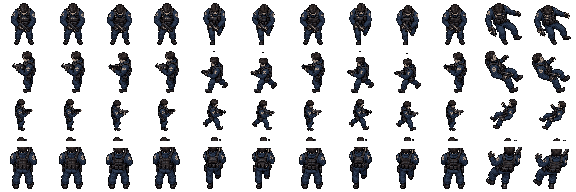
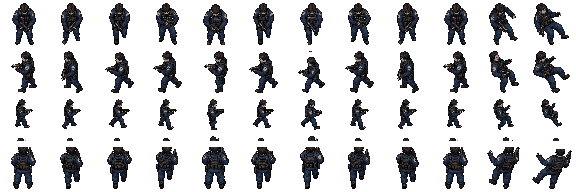
fix(art): replace translated character frames

diff --git a/test/art-assets.test.js b/test/art-assets.test.js
@@ -1,5 +1,6 @@
 import test from "node:test";
 import assert from "node:assert/strict";
+import { createHash } from "node:crypto";
 import { access, readFile } from "node:fs/promises";
 import { fileURLToPath } from "node:url";
 import { inflateSync } from "node:zlib";
@@ -149,6 +150,69 @@ function getVisibleFootY(framePixels) {
   return footY;
 }
 
+function getAlphaBounds(framePixels) {
+  let minX = 48;
+  let minY = 48;
+  let maxX = -1;
+  let maxY = -1;
+  for (let offset = 0; offset < framePixels.length; offset += 4) {
+    if (framePixels[offset + 3] !== 255) continue;
+    const pixelIndex = offset / 4;
+    const x = pixelIndex % 48;
+    const y = Math.floor(pixelIndex / 48);
+    minX = Math.min(minX, x);
+    minY = Math.min(minY, y);
+    maxX = Math.max(maxX, x);
+    maxY = Math.max(maxY, y);
+  }
+  assert.ok(maxX >= minX && maxY >= minY, "character frame cannot be empty");
+  return { minX, minY, maxX, maxY };
+}
+
+function normalizeFrameByAlphaBoundsAndFeet(framePixels) {
+  const { minX, minY, maxX, maxY } = getAlphaBounds(framePixels);
+  const width = maxX - minX + 1;
+  const height = maxY - minY + 1;
+  const targetX = Math.floor((48 - width) / 2);
+  const targetY = 48 - height;
+  const normalized = Buffer.alloc(48 * 48 * 4);
+
+  for (let sourceY = minY; sourceY <= maxY; sourceY += 1) {
+    for (let sourceX = minX; sourceX <= maxX; sourceX += 1) {
+      const sourceOffset = (sourceY * 48 + sourceX) * 4;
+      const destinationX = targetX + sourceX - minX;
+      const destinationY = targetY + sourceY - minY;
+      const destinationOffset = (destinationY * 48 + destinationX) * 4;
+      framePixels.copy(normalized, destinationOffset, sourceOffset, sourceOffset + 4);
+    }
+  }
+  return normalized;
+}
+
+function getNormalizedFrameHash(framePixels) {
+  return createHash("sha256")
+    .update(normalizeFrameByAlphaBoundsAndFeet(framePixels))
+    .digest("hex");
+}
+
+function getChangedVisiblePixelRatio(firstFrame, secondFrame) {
+  const first = normalizeFrameByAlphaBoundsAndFeet(firstFrame);
+  const second = normalizeFrameByAlphaBoundsAndFeet(secondFrame);
+  let changedPixels = 0;
+  let visibleUnionPixels = 0;
+  for (let offset = 0; offset < first.length; offset += 4) {
+    const firstVisible = first[offset + 3] === 255;
+    const secondVisible = second[offset + 3] === 255;
+    if (!firstVisible && !secondVisible) continue;
+    visibleUnionPixels += 1;
+    if (!first.subarray(offset, offset + 4).equals(second.subarray(offset, offset + 4))) {
+      changedPixels += 1;
+    }
+  }
+  assert.ok(visibleUnionPixels > 0, "character frame pair cannot be empty");
+  return changedPixels / visibleUnionPixels;
+}
+
 test("production manifest declares the approved static vertical slice", () => {
   assert.equal(TEXTURES.weaponPistolIcon, "weapon-pistol-icon");
   assert.equal(TEXTURES.weaponBreacherIcon, "weapon-breacher-icon");
@@ -251,16 +315,28 @@ test("opening character sheets are exact RGBA 48-frame production assets", async
         for (let column = start; column <= end; column += 1) {
           frames.push(getFramePixels(pixels, width, row * 12 + column));
         }
-        assert.ok(
-          new Set(frames.map((frame) => frame.toString("base64"))).size >= 2,
-          `${key} ${motion} row ${row} cannot repeat one frame`
+        assert.equal(
+          new Set(frames.map(getNormalizedFrameHash)).size,
+          frames.length,
+          `${key} ${motion} row ${row} must contain ${frames.length}/${frames.length} translation-normalized unique poses`
         );
         const footYs = frames.map(getVisibleFootY);
         assert.ok(footYs.every((value) => value >= 0), `${key} ${motion} row ${row} has an empty frame`);
         assert.ok(
-          Math.max(...footYs) - Math.min(...footYs) <= 1,
-          `${key} ${motion} row ${row} foot anchor drifts more than one pixel`
+          footYs.every((value) => value === 44),
+          `${key} ${motion} row ${row} feet must remain at y=44`
         );
+        for (let frameIndex = 0; frameIndex < frames.length; frameIndex += 1) {
+          const nextFrameIndex = (frameIndex + 1) % frames.length;
+          const changedPixelRatio = getChangedVisiblePixelRatio(
+            frames[frameIndex],
+            frames[nextFrameIndex]
+          );
+          assert.ok(
+            changedPixelRatio >= 0.04,
+            `${key} ${motion} row ${row} frames ${frameIndex}->${nextFrameIndex} changed-pixel ratio ${changedPixelRatio.toFixed(4)} is below 0.0400`
+          );
+        }
       }
     }
   }

diff --git a/docs/art/asset-register.md b/docs/art/asset-register.md
@@ -179,8 +179,8 @@ Avoid: crown, tiara, spikes around hood, gold headwear, royal costume, front ele
 | facility-hazard-stripe | PNG | `assets/art/facility/hazard-stripe.png` | OpenAI built-in `image_gen`（具体模型名未由工具暴露） | 2026-07-13 | [P19](#p19-facility-hazard-stripe)；仅文本输入 | 原图 1254×1254 RGB；中心正方形裁切；nearest 精确缩至 32×32；MEDIANCUT 无抖动量化为 32 色；复制首行/列到末行/列形成逐像素闭合边界；转 8-bit RGBA，alpha 固定 255 | 项目定制生成；无第三方图像输入；未声明独立许可证，商业发布前复核服务条款与输出权利；当前无第三方署名要求，若服务条款复核产生要求则补充 | 候选；商业发布前复核 | 静态门禁候选 |
 | facility-observation-window | PNG | `assets/art/facility/observation-window.png` | OpenAI built-in `image_gen`（具体模型名未由工具暴露） | 2026-07-13 | [P20](#p20-facility-observation-window)；仅文本输入 | 原图 1536×1024 RGB；官方 `remove_chroma_key.py --auto-key border --soft-matte --transparent-threshold 12 --opaque-threshold 220 --despill`；alpha 以 128 阈值二值化并按 bbox 裁切；nearest 等比缩入 92×60 内容区并居中至 96×64；MEDIANCUT 无抖动量化；8-bit RGBA；bbox `(2,13,94,51)`，32 个不透明色，alpha 仅 0/255 | 项目定制生成；无第三方图像输入；未声明独立许可证，商业发布前复核服务条款与输出权利；当前无第三方署名要求，若服务条款复核产生要求则补充 | 候选；商业发布前复核 | 静态门禁候选 |
 | facility-pipe-bank | PNG | `assets/art/facility/pipe-bank.png` | OpenAI built-in `image_gen`（具体模型名未由工具暴露） | 2026-07-13 | [P21](#p21-facility-pipe-bank)；仅文本输入 | 原图 1536×1024 RGB；官方 `remove_chroma_key.py --auto-key border --soft-matte --transparent-threshold 12 --opaque-threshold 220 --despill`；alpha 以 128 阈值二值化并按 bbox 裁切；nearest 等比缩入 92×60 内容区并居中至 96×64；MEDIANCUT 无抖动量化；8-bit RGBA；bbox `(2,16,94,48)`，32 个不透明色，alpha 仅 0/255 | 项目定制生成；无第三方图像输入；未声明独立许可证，商业发布前复核服务条款与输出权利；当前无第三方署名要求，若服务条款复核产生要求则补充 | 候选；商业发布前复核 | 静态门禁候选 |
-| player-opening-sheet | PNG spritesheet | `assets/art/characters/player-opening-sheet.png` | OpenAI built-in `image_gen`（具体模型名未由工具暴露）+ bundled Python/Pillow 12.2.0 | 2026-07-13 | [P22](#p22-player-opening-sheet)；仅文本输入；原始输出 `C:\Users\24037\.codex\generated_images\019f59e7-6613-73d3-9ac1-a2f4baa76dcd\exec-3d058fc0-8885-4f0b-9121-627db2e44d05.png`，工作副本 `.superpowers/sdd/opening-task-6-sources/player-grid-raw.png` | 1254×1254 RGB；官方 `remove_chroma_key.py --auto-key border --soft-matte --transparent-threshold 12 --opaque-threshold 220 --despill`；alpha 以 128 阈值二值化；按 4×3 单元提取 idle/move/hit 源姿势并按 alpha bbox 裁切；nearest 等比缩入每帧最大 40×42 内容区；以源姿势和 ±1px 横移/1–2px 高度变化组装每方向 idle 4 / move 6 / hit 2，脚底固定 y=44；整张 sheet MEDIANCUT 无抖动量化为 32 个可见色；输出 576×192、48 帧、8-bit RGBA、alpha 仅 0/255 | 项目定制生成；无第三方图像输入；未声明独立许可证，商业发布前复核 OpenAI 服务条款与输出权利；当前无第三方署名要求，若复核产生要求则补充 | 候选；商业发布前复核 | 开局动画候选 |
-| infected-opening-sheet | PNG spritesheet | `assets/art/characters/infected-opening-sheet.png` | OpenAI built-in `image_gen`（具体模型名未由工具暴露）+ bundled Python/Pillow 12.2.0 | 2026-07-13 | [P23](#p23-infected-opening-sheet-first-attempt-no-output) 首次调用卡住且无输出；[P24](#p24-infected-opening-sheet-successful-source) 为实际源；仅文本输入；原始输出 `C:\Users\24037\.codex\generated_images\019f59e7-6613-73d3-9ac1-a2f4baa76dcd\exec-d4c287ef-366b-4f0f-983a-7e1b93fa44fe.png`，工作副本 `.superpowers/sdd/opening-task-6-sources/infected-grid-raw.png` | 1254×1254 RGB；使用与 player 完全相同的官方去色键、alpha 二值化、4×3 源姿势提取、nearest 缩放、逐帧组装和整 sheet MEDIANCUT 无抖动量化流程；脚底固定 y=44；输出 576×192、48 帧、8-bit RGBA、32 个可见色、alpha 仅 0/255 | 项目定制生成；无第三方图像输入；未声明独立许可证，商业发布前复核 OpenAI 服务条款与输出权利；当前无第三方署名要求，若复核产生要求则补充 | 候选；商业发布前复核 | 开局动画候选 |
+| player-opening-sheet | PNG spritesheet | `assets/art/characters/player-opening-sheet.png` | OpenAI built-in `image_gen`（具体模型名未由工具暴露）+ Node.js nearest/binary-alpha assembly | 2026-07-13 | 原概念源 [P22](#p22-player-opening-sheet)；补帧 [P25](#p25-player-idle-hit-remediation-source)；两次 walk 调用 [P26](#p26-player-walk-remediation-attempt-no-output)、[P29](#p29-player-walk-remediation-retry-no-output) 均无输出 | 补帧原图 `C:\Users\24037\.codex\generated_images\019f5a0e-95c3-72b0-969d-7fc51a88a89f\exec-1edce71f-7d84-477f-94c5-36e33f44ebaa.png`；以绿幕距离/绿色优势生成 binary alpha；4×6 alpha bbox 提取；idle 使用新源列 0–3，move 使用原源 idle/move 与新源列 0–3 共 6 个真实姿势，hit 使用新源列 4–5；nearest 等比缩入 40×42、渲染后脚底对齐 y=44；映射到原 player sheet 的 32 色 palette；输出 576×192、8-bit RGBA、alpha 0/255。工作源见 `.superpowers/sdd/opening-task-6-fix-sources/` | 项目定制生成；唯一 reference 为原项目定制生成源板；无第三方图像输入；未声明独立许可证，商业发布前复核 OpenAI 服务条款与输出权利；当前无第三方署名要求 | 候选；商业发布前复核 | 开局动画候选（真实动作帧修复） |
+| infected-opening-sheet | PNG spritesheet | `assets/art/characters/infected-opening-sheet.png` | OpenAI built-in `image_gen`（具体模型名未由工具暴露）+ Node.js nearest/binary-alpha assembly | 2026-07-13 | 原概念源 [P24](#p24-infected-opening-sheet-successful-source)；补帧 [P27](#p27-infected-idle-hit-remediation-source)、[P28](#p28-infected-walk-remediation-source) | idle/hit 原图 `C:\Users\24037\.codex\generated_images\019f5a0e-95c3-72b0-969d-7fc51a88a89f\exec-b6192a8e-30e2-472e-9424-22cb24026894.png`；walk 原图 `C:\Users\24037\.codex\generated_images\019f5a0e-95c3-72b0-969d-7fc51a88a89f\exec-4bb36632-a0dd-46e3-99d3-9127e6ac047a.png`；binary alpha 与 4×6 alpha bbox 提取；idle 列 0–3 / walk 列 0–5 / hit 列 4–5；nearest 等比缩入 40×42、脚底 y=44；映射到原 infected sheet 的 32 色 palette；输出 576×192、8-bit RGBA、alpha 0/255。工作源见 `.superpowers/sdd/opening-task-6-fix-sources/` | 项目定制生成；唯一 reference 为原项目定制生成源板；无第三方图像输入；未声明独立许可证，商业发布前复核 OpenAI 服务条款与输出权利；当前无第三方署名要求 | 候选；商业发布前复核 | 开局动画候选（真实动作帧修复） |
 
 ### P13 title-facility-backdrop
 
@@ -354,6 +354,103 @@ Scene/backdrop: perfectly flat uniform solid #00ff00 chroma-key background.
 Constraints: no #00ff00 in the character; no shadows, gradients, floor, reflections, text, labels, logos, watermark, extra characters, props, gore, or scenery; crisp opaque edges; every pose distinct and direction unambiguous.
 Avoid: chibi, oversized head, zombie caricature, excess blood, 3D, isometric, side-view, smooth painting, soft transparency, duplicated poses.
 ```
+
+### P25 player-idle-hit-remediation-source
+
+Reference：`C:\Users\24037\.codex\generated_images\019f59e7-6613-73d3-9ac1-a2f4baa76dcd\exec-3d058fc0-8885-4f0b-9121-627db2e44d05.png`。输出：`C:\Users\24037\.codex\generated_images\019f5a0e-95c3-72b0-969d-7fc51a88a89f\exec-1edce71f-7d84-477f-94c5-36e33f44ebaa.png`。
+
+```text
+Use case: stylized-concept
+Asset type: additional source pose board for a production 48x48-per-frame top-down 2D pixel-art game character spritesheet
+Input images: Image 1 is the sole character identity, uniform, gear, palette, orthographic viewpoint, and pixel-art style reference.
+Primary request: Generate exactly 24 isolated poses of the SAME Foundation tactical survivor from Image 1, arranged as a precise 4-row by 6-column grid.
+Rows from top to bottom: natively drawn facing down toward viewer; facing left; facing right; facing up away from viewer. Do not create left/right rows by mirroring.
+Columns 1-4: four genuinely articulated idle phases. Pose 1 balanced low-ready stance; pose 2 weight shifted onto one leg with the opposite knee relaxed and shoulders subtly counter-rotated; pose 3 weight shifted to the other leg with weapon and elbows changing relative positions; pose 4 alert breath/scanning stance with distinct knee, shoulder, elbow, and weapon placement. Columns 5-6: two genuinely different hit recoil poses, one torso twisting and weapon arm pulling inward, the other shoulders recoiling back with the free arm and legs bracing differently.
+Subject invariants: preserve the exact same adult realistic-proportion survivor identity, dark navy protective suit, compact chest rig, pale shoulder insignia without readable text, black boots, hair, face, equipment, and compact firearm from Image 1. Weapon points consistently in the row's facing direction except during the two recoil poses.
+Style/medium: authentic detailed orthographic top-down 2D pixel art, coarse deliberate hard pixel clusters, limited steel-blue/graphite palette, crisp opaque edges, no antialiasing.
+Composition/framing: exact evenly spaced 4x6 grid, one complete full-body character per cell, identical character scale, generous uniform separation and padding, stable foot baseline within each row, no cell borders.
+Scene/backdrop: perfectly flat uniform solid #00ff00 chroma-key background for local removal.
+Constraints: all 24 poses must have visibly different limb articulation after translation alignment; change knees, boot separation/angle, shoulders, elbows, hands, weapon relation, and torso angle—not whole-body position, bob, scale, mirroring, recolor, or one-pixel noise alone. No #00ff00 in character; no shadows, gradients, texture, floor, reflections, text, labels, numbers, logos, watermark, extra characters, props, muzzle flash, blood, or scenery.
+Avoid: duplicated poses, translation-only copies, vertical bob-only frames, scaled copies, mirrored direction rows, chibi, oversized head, 3D, isometric, side-view, smooth painting, soft transparency.
+```
+
+### P26 player-walk-remediation-attempt-no-output
+
+Reference 同 P25。调用超过 5 分钟无输出后终止，未生成源文件。
+
+```text
+Use case: stylized-concept
+Asset type: six-phase walk-cycle source pose board for a production 48x48-per-frame top-down 2D pixel-art game character spritesheet
+Input images: Image 1 is the sole character identity, uniform, gear, palette, orthographic viewpoint, and pixel-art style reference.
+Primary request: Generate exactly 24 isolated poses of the SAME Foundation tactical survivor from Image 1, arranged as a precise 4-row by 6-column grid.
+Rows from top to bottom: natively drawn facing down toward viewer; facing left; facing right; facing up away from viewer. Do not create left/right rows by mirroring.
+Columns 1-6 are one coherent looping tactical walk cycle with six genuinely articulated gait phases: left-foot contact, left-foot load, passing pose, right-foot contact, right-foot load, opposite passing pose. Across the cycle, knees bend and exchange depth, boot spacing and angles change, hips and shoulders counter-rotate subtly, elbows and held weapon shift naturally with the stride, and the final-to-first transition loops cleanly. The survivor remains combat-ready rather than sprinting.
+Subject invariants: preserve the exact same adult realistic-proportion survivor identity, dark navy protective suit, compact chest rig, pale shoulder insignia without readable text, black boots, hair, face, equipment, and compact firearm from Image 1. Weapon points consistently in the row's facing direction.
+Style/medium: authentic detailed orthographic top-down 2D pixel art, coarse deliberate hard pixel clusters, limited steel-blue/graphite palette, crisp opaque edges, no antialiasing.
+Composition/framing: exact evenly spaced 4x6 grid, one complete full-body character per cell, identical character scale, generous uniform separation and padding, stable foot baseline within each row, no cell borders.
+Scene/backdrop: perfectly flat uniform solid #00ff00 chroma-key background for local removal.
+Constraints: every neighboring phase and phase 6 back to phase 1 must remain visibly different after translation alignment; real changes must affect legs, boots, knees, hips, shoulders, elbows, hands, and weapon relation—not whole-body translation, vertical bob, scaling, mirroring, recolor, or one-pixel noise alone. No #00ff00 in character; no shadows, gradients, texture, floor, reflections, text, labels, numbers, logos, watermark, extra characters, props, muzzle flash, blood, or scenery.
+Avoid: duplicated poses, translation-only copies, vertical bob-only frames, scaled copies, mirrored direction rows, chibi, oversized head, 3D, isometric, side-view, smooth painting, soft transparency.
+```
+
+### P27 infected-idle-hit-remediation-source
+
+Reference：`C:\Users\24037\.codex\generated_images\019f59e7-6613-73d3-9ac1-a2f4baa76dcd\exec-d4c287ef-366b-4f0f-983a-7e1b93fa44fe.png`。输出：`C:\Users\24037\.codex\generated_images\019f5a0e-95c3-72b0-969d-7fc51a88a89f\exec-b6192a8e-30e2-472e-9424-22cb24026894.png`。
+
+```text
+Use case: stylized-concept
+Asset type: additional source pose board for a production 48x48-per-frame top-down 2D pixel-art game character spritesheet
+Input images: Image 1 is the sole character identity, uniform, asymmetry, palette, orthographic viewpoint, and pixel-art style reference.
+Primary request: Generate exactly 24 isolated poses of the SAME infected Foundation maintenance worker from Image 1, arranged as a precise 4-row by 6-column grid.
+Rows from top to bottom: natively drawn facing down toward viewer; facing left; facing right; facing up away from viewer. Do not create left/right rows by mirroring.
+Columns 1-4: four genuinely articulated tense idle phases. Pose 1 uneven slouch with one shoulder low; pose 2 weight sinks onto the wounded-side leg while the opposite knee and elbow change; pose 3 weight shifts to the other leg with head, shoulders, hands, and boot angles changed; pose 4 an unstable sway with distinct torso twist, arm hang, knee bend, and foot spacing. Columns 5-6: two genuinely different hit recoil poses, one folding sideways with arms reacting asymmetrically, the other twisting backward with legs bracing in a different configuration.
+Subject invariants: preserve the exact same adult realistic-proportion infected worker identity, torn grey-blue maintenance uniform, dark work boots, utility belt, hair, facial damage, asymmetric diseased posture, restrained dark dried blood only on one sleeve and collar, and all equipment from Image 1.
+Style/medium: authentic detailed orthographic top-down 2D pixel art, coarse deliberate hard pixel clusters, limited grey-blue/graphite/restrained dark-red palette, crisp opaque edges, no antialiasing.
+Composition/framing: exact evenly spaced 4x6 grid, one complete full-body character per cell, identical character scale, generous uniform separation and padding, stable foot baseline within each row, no cell borders.
+Scene/backdrop: perfectly flat uniform solid #00ff00 chroma-key background for local removal.
+Constraints: all 24 poses must have visibly different limb articulation after translation alignment; change knees, boot separation/angle, hips, shoulders, elbows, hands, head angle, and torso bend—not whole-body position, bob, scale, mirroring, recolor, or one-pixel noise alone. No #00ff00 in character; no shadows, gradients, texture, floor, reflections, text, labels, numbers, logos, watermark, extra characters, props, gore, exposed organs, or scenery.
+Avoid: duplicated poses, translation-only copies, vertical bob-only frames, scaled copies, mirrored direction rows, zombie caricature, excessive blood, chibi, oversized head, 3D, isometric, side-view, smooth painting, soft transparency.
+```
+
+### P28 infected-walk-remediation-source
+
+Reference 同 P27。输出：`C:\Users\24037\.codex\generated_images\019f5a0e-95c3-72b0-969d-7fc51a88a89f\exec-4bb36632-a0dd-46e3-99d3-9127e6ac047a.png`。
+
+```text
+Use case: stylized-concept
+Asset type: six-phase walk-cycle source pose board for a production 48x48-per-frame top-down 2D pixel-art game character spritesheet
+Input images: Image 1 is the sole character identity, uniform, asymmetry, palette, orthographic viewpoint, and pixel-art style reference.
+Primary request: Generate exactly 24 isolated poses of the SAME infected Foundation maintenance worker from Image 1 in a precise 4-row by 6-column grid.
+Rows top to bottom: natively drawn facing down; facing left; facing right; facing up. Never mirror a direction row.
+Columns 1-6: one coherent looping six-phase lurching walk cycle: left-foot contact, left-side load, passing pose, right-foot contact, right-side load, opposite passing pose. Make all phases genuinely articulated: alternating knee bend and depth, boot spacing and angle, uneven hip shift, asymmetric shoulder counter-rotation, head lag, elbow and hand swing, and changing torso bend. Phase 6 must loop naturally to phase 1.
+Subject invariants: preserve the same adult realistic-proportion infected worker identity, torn grey-blue maintenance uniform, dark boots, utility belt, hair, facial damage, asymmetric diseased posture, restrained dark dried blood only on one sleeve and collar, and equipment from Image 1.
+Style/medium: detailed orthographic top-down 2D pixel art, hard deliberate pixel clusters, limited grey-blue/graphite/dark-red palette, crisp opaque edges, no antialiasing.
+Composition/framing: exact evenly spaced 4x6 grid, one full-body character per cell, identical scale, generous separation, stable foot baseline, no borders.
+Scene/backdrop: perfectly flat uniform solid #00ff00 chroma-key background.
+Constraints: every adjacent phase and phase 6 back to phase 1 must differ after translation alignment through real limb and torso articulation; never use whole-body translation, vertical bob, scaling, mirroring, recolor, or one-pixel noise alone. No #00ff00 in subject; no shadows, gradients, floor, reflections, text, labels, logos, watermark, extra characters, props, gore, exposed organs, or scenery.
+Avoid: duplicate poses, translation copies, bob-only frames, scaled copies, mirrored rows, zombie caricature, excessive blood, chibi, 3D, isometric, side-view, smooth painting, soft transparency.
+```
+
+### P29 player-walk-remediation-retry-no-output
+
+Reference 同 P25。缩短 prompt 后再次调用，超过 5 分钟仍无输出并终止，未生成源文件。
+
+```text
+Use case: stylized-concept
+Asset type: six-phase walk-cycle source pose board for a 48x48 top-down pixel-art game spritesheet
+Input images: Image 1 is the sole identity/style reference.
+Primary request: exactly 24 isolated poses of the SAME Foundation tactical survivor from Image 1, in an exact 4-row by 6-column grid.
+Rows top-to-bottom: natively drawn facing down, left, right, up; never mirror a direction row. Columns 1-6: a coherent looping tactical walk cycle: left contact, left load, passing, right contact, right load, opposite passing.
+Every phase must use real articulation: alternate knees and boot depth/spacing/angle, hip and shoulder counter-rotation, elbow/hand changes, and subtle firearm shift while remaining combat-ready. Frame 6 loops naturally to frame 1.
+Preserve exactly: adult proportions and identity, dark navy protective suit, compact chest rig, pale shoulder insignia without readable text, black boots, hair, face, all gear, and compact firearm pointing in row direction.
+Style: detailed orthographic top-down 2D pixel art, hard coarse pixel clusters, limited steel-blue/graphite palette, crisp opaque edges, no antialiasing.
+Composition: evenly spaced 4x6 grid, one full body per cell, identical scale, generous separation, stable foot baseline, no borders.
+Backdrop: perfectly flat uniform #00ff00 chroma key.
+Constraints: adjacent phases and 6-to-1 remain visibly different after translation alignment; no translation-only, bob-only, scaling, mirroring, recolor, or one-pixel-noise variants. No green in subject, shadows, gradients, floor, reflection, text, labels, logos, watermark, extra characters, props, muzzle flash, blood, or scenery.
+Avoid: duplicates, chibi, oversized head, 3D, isometric, side-view, smooth painting, soft transparency.
+```
+
+修复组装说明：built-in 输出先复制至 `.superpowers/sdd/opening-task-6-fix-sources/`。官方 `remove_chroma_key.py` 因当前 worktree 无可用 Python runtime 未能执行；未切换 CLI 或模型。实际使用项目临时 Node.js 组装脚本按四角绿幕色计算 RGB 距离（≤120）并要求绿色通道分别高于红、蓝 55，直接生成 alpha 0/255；随后按 alpha bbox 提取姿势、nearest 端点保持缩放、渲染后仅作脚底 y=44 对齐，并映射至对应旧 sheet 的 32 色 palette。该过程不绘制替代角色、不制造平移动作。独立审计脚本未导入生产测试函数；所有方向达到 idle 4/4、move 6/6、hit 2/2 normalized unique，最小循环相邻 changed-pixel ratio 为 0.8045。
 
 开局使用约束：`infected-opening-sheet` 在 `elapsedSurvivalMs < 60000` 时是唯一权重大于 0 的普通敌人。
 